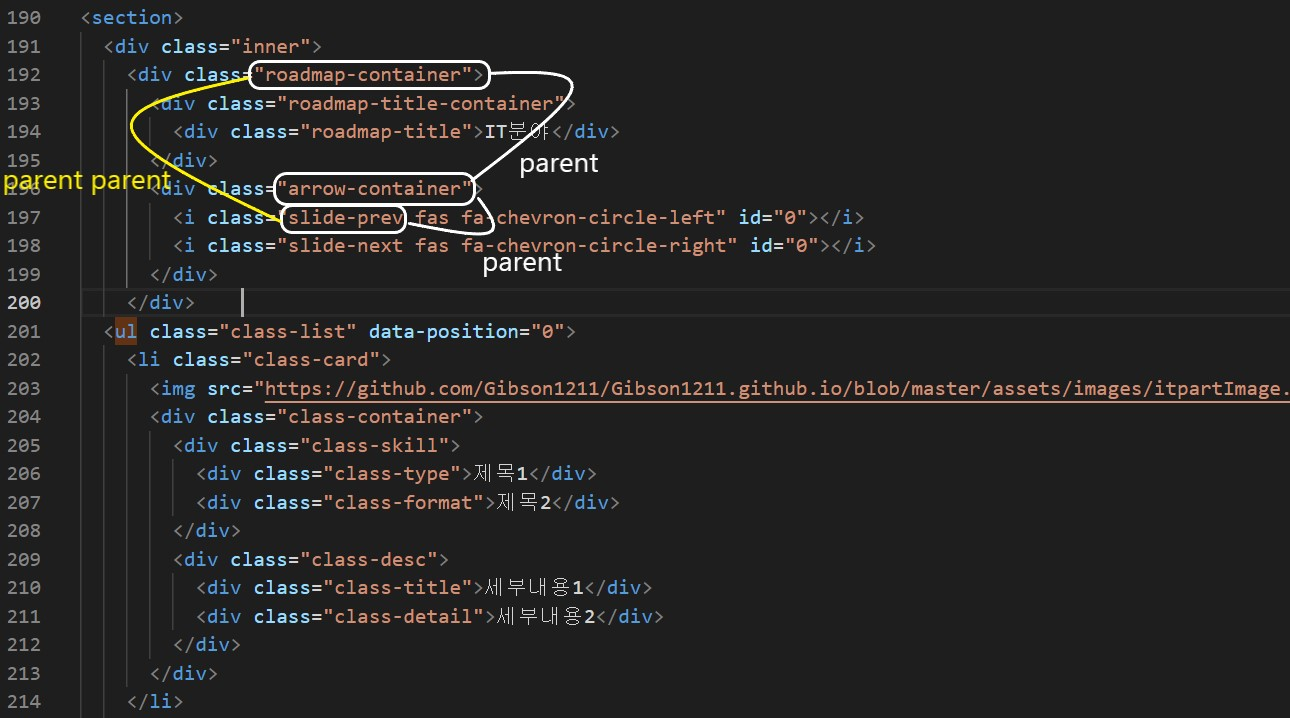
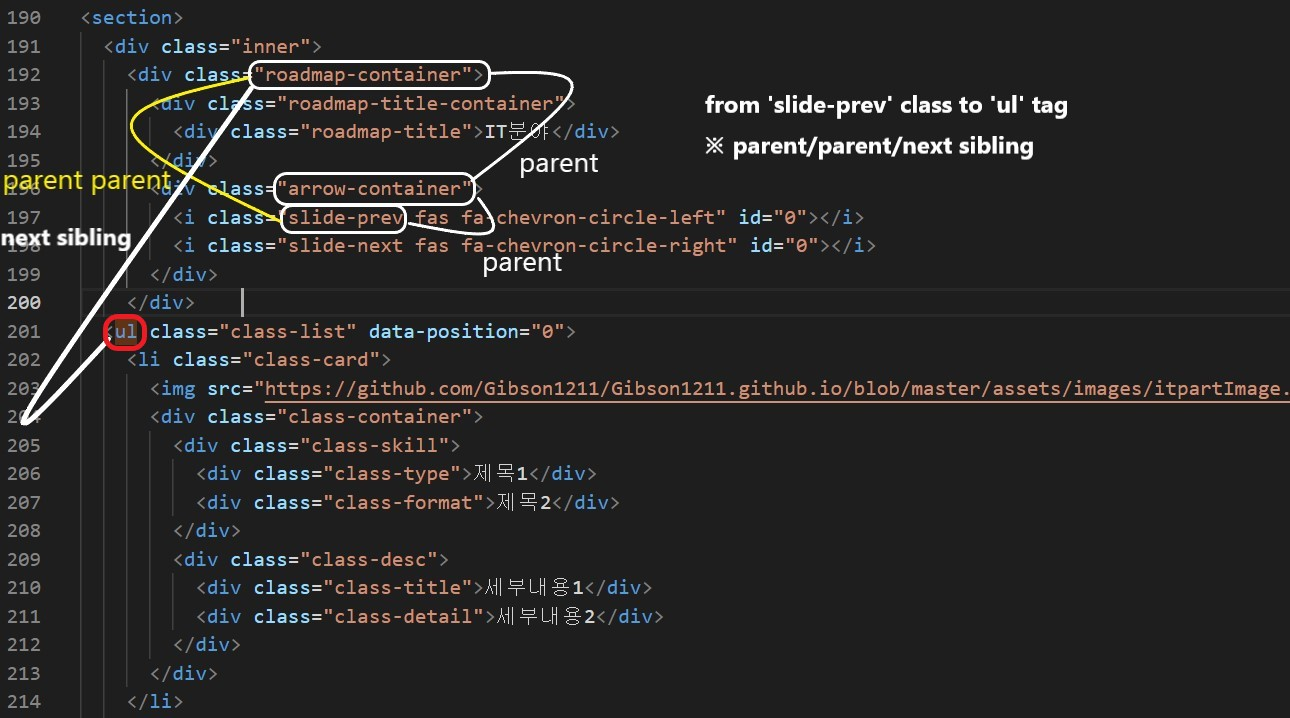
0401

diff --git a/_posts/2022-04-01-HtmlCssJs0010.md b/_posts/2022-04-01-HtmlCssJs0010.md
@@ -26,7 +26,7 @@ search: true
 <br>
 <h6> 첫째 화살표 아이콘의 작동과 관련된 class-card 태그는 ul 태그에서 시작이 된다.<br>그래서 ul태그에 기준 시작점을 세팅할 필요가 있고 그 시작점으로 부터 어느만큼 이동했는지<br> 그 값을 활용하여 기능 구현을 할 수 있다.<br>이를 구현하는 방법으로는 HTML5에서 태그에 변수선언 및 변수값 지정으로 구현할 수 있는데<br> 변수값을 넣고자 할때 "data-변수이름=변수값"으로 작성하면 된다.<br>따라서 여기에서는 data-position="0"으로 작성을 하였다[data-변수이름(position)=변수값("0")]. <br>index.html 內 모든 ul 태그에 적용해야 한다.</h6>
 
-<h6>두번째는 여러개의 class-list에는 각각의 화살표 아이콘이 있기에 하나의 화살표 아이콘을 눌렀을 때<br> 이에 해당하는 class-list와 class-card만 동작해야 한다.<br> 동일한 영역에 존재하지 않는 것들은 동작해서 안되는 것이다. <br>따라서 해당 화살표 아이콘과 해당 class-list & class-card간 연관관계는<br> 위치값을 이용한 인자(ex. parent, nextsibling 등)를 이용해서 설정해야 한다. <br>연관관계를 정상적으로 찾은 경우 li 태그 내 class-card의 총 갯수를 계산하고 <br>또한 화면에 보여질 class-card 숫자를 계산해서 li 태그 내 class-card 숫자가 <br>화면에 보여지는 class-card보다 큰 경우에만 화살표 아이콘이 보이고, 작동되어야 한다. <br>여기에 화면의 위치가 우측 시작점이라면 우측 화살표는 비활성화 되어야 하고 <br>좌측 끝지점이라면 좌측 화살표가 비활성화 되어야 한다. <br>다만 li 태그 내 class-card 숫자가 화면보다 적다면 화살표가 보여질 필요도 없고 작동할 필요도 없다. <br>이러한 조건을 토대로 코드는 작성되어져야 한다.   </h6>
+<h6>두번째는 여러개의 class-list에는 각각의 화살표 아이콘이 있기에 하나의 화살표 아이콘을 눌렀을 때<br> 이에 해당하는 class-list와 class-card만 동작해야 한다.<br> 동일한 영역에 존재하지 않는 것들은 동작해서 안되는 것이다. <br>따라서 해당 화살표 아이콘과 해당 class-list & class-card간 연관관계는<br> 위치값을 이용한 인자(ex. parent, nextsibling 등)를 이용해서 설정해야 한다. <br>연관관계를 정상적으로 찾은 경우 li 태그 내 class-card의 총 갯수를 계산하고 <br>또한 화면에 보여질 class-card 숫자를 계산해서 li 태그 내 class-card 숫자가 <br>화면에 보여지는 class-card보다 큰 경우에만 화살표 아이콘이 보이고, 작동되어야 한다. <br>다만 li 태그 내 class-card 숫자가 화면보다 적다면 화살표가 보여질 필요도 없고 작동할 필요도 없다. <br>이러한 조건을 토대로 코드는 작성되어져야 한다.   </h6>
 
 ```html
 <!-- HTML5에서는 태그에 확장적인 처리를 위해 변수값을 넣고자 할때 "data-변수이름=변수값"으로 작성하면 된다.
@@ -46,7 +46,10 @@ search: true
 <div align="center">
 <img src="https://github.com/Gibson1211/Gibson1211.github.io/blob/master/assets/images/findUlClassFromSlide-prev.JPG?raw=true" width="1000"><br>
 </div>
-<h6>위의 이미지에서 추출한 결과값(slidePrev.parentElement.parentElement.nextElementSibling;)을 아래에서 사용한다.</h6>
+<h6>위의 이미지에서 추출한 결과값(slidePrev.parentElement.parentElement.nextElementSibling;)을 아래에서 사용한다.<br>아래 이미지를 참고하자</h6>
+<div align="center">
+<img src="https://github.com/Gibson1211/Gibson1211.github.io/blob/master/assets/images/findUlClassFromSlide-prev.JPG?raw=true" width="1000"><br>
+</div>
 <br>
 
 ```js
